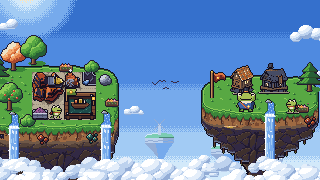
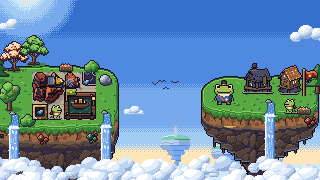
Title scene: the sky island at morning replaces the bayou at dusk
The world moved from a bayou to a floating sky island (docs/sky-island.md), and the title's
key art was the last big piece still showing water and stilts. The new src/art/title_scene
(320x180, 8 frames at 8 fps) is built by pixel-art/title/build.py from pixel-art/sky's pieces
and the game's own sprites:

- the Workshop island at the left with its paved plot and the working line in an L (a miner on
  the iron outcrop, a furnace, a belt turn carrying ingots into the Dock), a brass module with an
  ingot in its well beside it (the tagline's promise), trees on the rim, two waterfalls, a tiered
  underside into the cloud sea;
- the town's island at the right: Mayor Bramble, drawn whole here, raising his top hat against
  the sky, his house and a gable house re-seated on footings, the town's pennant, a townsperson,
  a waterfall and the rocky tip;
- a morning sky (the sun's glow, a warm horizon), a hazed windmill islet, puffs, birds.

The composition keeps the bands drawTitleScene already uses: nothing tall under the logo and
ribbon, the buttons on open sky between the islands, the last line on the cloud sea. The whole
line sits inside the 1024x640 crop (scene x 32-288). drawTitleScene's coordinates are unchanged
(its comment now says sky, not water). PixelLab: 0 generations.

Checked: tsc clean, vitest 662 passed, e2e/screens.mjs title clean at 1280x720, 1920x1080 and
1024x640; pixel-art/title/shot.mjs shows the Continue state (the coin chip clears Bramble).

diff --git a/src/app/hud.ts b/src/app/hud.ts
@@ -552,8 +552,9 @@ export function drawTitle(app: App) {
 /** The title over the art director's key art ('title_scene', 320x180, STYLE.md): the scene at
  *  the smallest whole-number scale that covers the screen, centred and cropped, never smoothed.
  *  Everything is placed in scene coordinates so it lands on the scene's calm areas: the logo and
- *  the tagline's ribbon on the sky band (scene y 14-66), the buttons on the open water (y 104+),
- *  the last line on a slip along the bottom. */
+ *  the tagline's ribbon on the sky band (scene y 14-66), the buttons on the open sky between the
+ *  two islands (x 125-195 from y 104; the coin chip lands on the town island's empty west end),
+ *  the last line on a slip on the cloud sea along the bottom (pixel-art/title/build.py). */
 function drawTitleScene(app: App) {
   const ui = app.ui;
   const t = ui.time;

diff --git a/pixel-art/title/build.py b/pixel-art/title/build.py
@@ -6,24 +6,33 @@ everything that matters sits inside that.
 Composition (scene px): a morning sky (sky.py's gradient, the sun's glow top-left) with the logo
 (y 14..54) and the tagline ribbon (y 56..64) on its calm band; the buttons (x 125..195 from y 104)
 on open sky between two islands; the last line's slip on the cloud sea along the bottom.
-- the Workshop island at the left, nearer and lower: the grass rim, a paved plot with the working
-  line (a miner on the iron outcrop, a furnace, a belt carrying ingots into the Dock), trees on the
-  rim, its cliff with an iron vein, a waterfall off its lip, its underside sunk in the cloud sea;
-- the town's island at the right, higher: Bramble's house and a gable house on footings, a lamp,
-  the town flag, Mayor Bramble in front of his door raising his top hat, a frog townsperson, its
-  cliff, underside and rocky tip, a long waterfall into the clouds;
-- far islets hazed on the horizon under the buttons, high puffs in the corners, a flock of birds.
+- the Workshop island at the left: the grass rim, a paved plot with the working line in an L (a
+  miner on the iron outcrop, a furnace, a belt turning south into the Dock, ingots riding it), a
+  brass module with an ingot in its well beside it (the line folded: the tagline's promise), a
+  frog worker, trees and bushes on the rim, its cliff with ore veins, two waterfalls off its lip,
+  its tiered underside sinking into the cloud sea;
+- the town's island at the right: Mayor Bramble out on the open grass raising his top hat (it
+  goes up against the sky), his house and a gable house re-seated on stone footings, the town's
+  red pennant, a townsperson, a waterfall, the cliff, the tiered underside and its rocky tip;
+- a hazed windmill islet on the horizon under the buttons (off their axis), puffs in the
+  corners, a flock of birds over the gap, the horizon warmed to the sun's colour (morning).
+Nothing tall stands under the logo or the ribbon (x 50..270 above y 66): trees only at x < 50.
 
-Motion (8 frames): the waterfalls run (isle_fall's 4-frame loop twice) and foam where they meet the
-clouds, the belt runs and ingots ride it into the Dock, the miner drills and the furnace's mouth
-flickers, a puff of smoke rises, the flag waves, the birds flap and bob, the front puffs of the
-cloud sea breathe, the lamp flickers, Bramble raises his hat once a loop.
+Motion (8 frames, a 1 s loop): the waterfalls run (isle_fall's 4-frame loop twice) and foam
+where they meet the clouds, the belt turn runs and two ingots ride it into the Dock, the miner
+drills, the furnace's mouth flickers, the module's band breathes, the pennant waves, the birds
+flap and bob, the front puffs of the cloud sea breathe a pixel, the frog worker steps, Bramble
+blinks and raises his hat. Nothing drifts across the frame (it could not loop in 8 frames).
 
 Pieces: pixel-art/sky/ (the island's cliff and underside textures, the tip, the falls and foam,
-the grass and paving tiles, deco, trees and bushes, clouds, islets, the bird) and src/art/ (the
-miner, furnace, belt, Dock, iron outcrop, town houses, lamp, frog). Bramble's full figure and
-the flag are drawn here. Run `python build.py` from this folder: writes src/art/title_scene.png
-+ .json and looks in out/.
+the grass and paving tiles, deco, trees and bushes, clouds, islets, the bird, the gradient) and
+src/art/ (the miner, furnace, belt turn, Dock, module, ingot, iron outcrop on paving, town houses,
+frog). Bramble's whole figure, the pennant and the islands' shapes are drawn here (the game's
+island is tile-built and too big for 320x180; this one follows its rules per pixel column: lip,
+cliff, tiers, tip, one ink outline). Run `python build.py` from this folder: it writes
+src/art/title_scene.png + .json and the looks in out/ (frame 0 at 1x and 4x, frame 5 at 4x, a
+GIF, the motion sheets, Bramble at 10x, the 1024x640 crop). `node shot.mjs` (with BASE set to a
+dev server) shoots the real title with a save at the three window sizes into out/game-*.png.
 """
 import json
 import math
@@ -35,7 +44,7 @@ sys.path.insert(0, str(HERE.parent / "sky"))
 
 from PIL import Image  # noqa: E402
 
-from common import P, T, new, draw, put, rect, get, rgb, hsh, vnoise, scale, frame_of, ART_SET, sheet  # noqa: E402
+from common import P, T, new, draw, put, rgb, hsh, vnoise, scale, frame_of, ART_SET, sheet, bayer  # noqa: E402
 import island  # noqa: E402
 import sky  # noqa: E402
 import props  # noqa: E402
@@ -104,17 +113,17 @@ BRAMBLE = [
     ".......khHhhk.......",
     ".......khHhhk.......",
     ".......khhhhk.......",
-    ".......koyook.......",
-    "..kkk.kkkkkkkk.kkk..",
-    ".kwwwkkGGGGGGkkwwwk.",
-    ".kwkekGGGGGGGGGkekwk",
-    ".kwwwkGGGGGGGGGkwwgk",
-    ".kGGGGGGGGGGGGGGGGgk",
-    ".kGGGGGGGGGGGGGGGggk",
-    ".kgGkGGGGGGGGGGkGggk",
-    ".kggGkkkkkkkkkkGgggk",
-    "..kgggggggggggggggk.",
-    "...kkwwwwwwwwwwwkk..",
+    "..kkk..koyook..kkk..",
+    ".kwwwkkkkkkkkkkwwwk.",
+    ".kweekGGGGGGGGkeewk.",
+    ".kweekGGGGGGGGkeewk.",
+    ".kGwwGGGGGGGGGGwwGk.",
+    "kGGGGGGGGGGGGGGGGGgk",
+    "kGGGGGGGGGGGGGGGGGgk",
+    "kgGkGGGGGGGGGGGGkGgk",
+    "kggGkkkkkkkkkkkkGggk",
+    ".kggggggggggggggggk.",
+    "..kkwwwwwwwwwwwwkk..",
     "..kCskwwwwwwwwwkcck.",
     ".kCCCsSCCwwCCCCccck.",
     ".kCCCCsSCCCCCCCccck.",
@@ -141,36 +150,42 @@ def from_rows(rows, key):
 
 
 def bramble(f):
-    """Bramble standing, 20x25 (+3 above for the raised hat): frames 4-6 lift the hat with his
-    right hand, frame 2 blinks. Returns (img, y offset: draw at y - 3)."""
+    """Bramble standing, 24x32 (his feet on row 30): big domed eyes, his small top hat, the blue
+    coat with the copper sash and the gold medal. Frame 2 blinks; frames 4-6 he lifts the hat off
+    his head and holds it up at his side, his arm straight up in its sleeve (the hat 4 px up, 5 at
+    the top of the gesture), so the greeting reads at 1x against the sky."""
     rows = [list(r) for r in BRAMBLE]
-    if f == 2:                                   # blink: lids over both eyes
-        for y in (7,):
-            for x in (2, 3, 4, 15, 16, 17):
-                rows[y][x] = "g"
+    if f == 2:                                   # blink: the lids come down
         for x in (2, 3, 4, 15, 16, 17):
-            rows[6][x] = "g" if rows[6][x] == "w" else rows[6][x]
-    img = new(20, 28)
-    body = from_rows(["".join(r) for r in rows], BKEY)
-    if f in (4, 5, 6):
-        lift = 3 if f == 5 else 2
-        hat = body.crop((7, 0, 13, 5))
-        head = body.crop((0, 5, 20, 25))
-        img.alpha_composite(head, (0, 8))
-        img.alpha_composite(hat, (8, 3 - lift))
-        # the right arm up to the hat brim (the viewer's right): the hand on the brim
-        for (x, y, c) in ((17, 21, "k"), (18, 21, "k"), (16, 20, "g"), (17, 20, "g"), (18, 20, "k"),
-                          (15, 19, "g"), (16, 19, "g"), (17, 19, "k"), (14, 18, "k"), (15, 18, "k"),
-                          (13, 7 - lift, "g"), (14, 7 - lift, "k"), (13, 8 - lift, "k")):
-            put(img, x, y, BKEY[c])
-        # the old hand at his side is now his raised sleeve: clear it
-        for (x, y) in ((18, 23), (19, 23), (18, 24), (19, 24), (19, 25)):
-            if (x, y) == (18, 23):
-                put(img, x, y, BKEY["C"])
-            else:
-                img.putpixel((x, y), (0, 0, 0, 0))
-    else:
-        img.alpha_composite(body, (0, 3))
+            rows[5][x] = rows[6][x] = "g"
+            rows[7][x] = "k"
+    img = new(24, 32)
+    if f not in (4, 5, 6):
+        img.alpha_composite(from_rows(["".join(r) for r in rows], BKEY), (0, 6))
+        return img
+    lift = 5 if f == 5 else 4
+    hat = from_rows([r[6:14] for r in BRAMBLE[:5]] + ["kkkkkkkk"], BKEY)
+    rows[4] = list("..kkk..........kkk..")               # the head, bare (row 5 is its crown)
+    for y in (18, 19, 20):                               # the hand leaves his side
+        rows[y][18] = rows[y][19] = "."
+        rows[y][17] = "k"
+    img.alpha_composite(from_rows(["".join(r) for r in rows[4:]], BKEY), (0, 10))
+    brim = 11 - lift
+    img.alpha_composite(hat, (13, brim - 5))
+    arm = {}
+    for y in range(brim + 1, 23):                        # the sleeve, wrist to shoulder
+        arm[(20, y)] = "C"
+        arm[(21, y)] = "c"
+    for (x, y) in ((20, brim - 1), (21, brim - 1), (20, brim), (21, brim)):
+        arm[(x, y)] = "g"                                # the hand on the brim
+    arm[(20, brim - 1)] = "G"
+    for (x, y), ch in arm.items():
+        put(img, x, y, BKEY[ch])
+    for (x, y) in list(arm):
+        for dx, dy in ((1, 0), (-1, 0), (0, 1), (0, -1)):
+            q = (x + dx, y + dy)
+            if q not in arm and 0 <= q[0] < 24 and 0 <= q[1] < 32 and not img.getpixel(q)[3]:
+                put(img, q[0], q[1], P["ink"])
     return img
 
 
@@ -376,11 +391,6 @@ class Isle:
         while y < sea + 6:
             img.alpha_composite(seg.crop((0, 0, 16, min(32, sea + 6 - y))), (fx, y))
             y += 32
-        # the falling sheet's own outline, so it reads against the sky
-        for yy in range(fr + 1, sea + 6):
-            for xx in (fx + 2, fx + 13):
-                if 0 <= yy < H and not get(img, xx, yy)[3]:
-                    pass
 
 
 # ---------------------------------------------------------------- the ground on the islands
@@ -419,8 +429,17 @@ ISLETS = [sky.islet(v) for v in range(4)]
 
 def backdrop():
     img = GRAD.copy()
-    # far islets on the horizon (pre-hazed), the one under the buttons the smallest
-    for (x, y, v) in ((128, 116, 2), (196, 128, 1), (-18, 122, 3)):
+    # morning: the horizon right over the cloud sea warms to the sun's colour, a band with the
+    # gradient's own 8-row ordered-dither seam above it (sky.py), mostly showing between the puffs
+    a = img.load()
+    seam, band = 144, 152
+    for y in range(seam, SEA + 2):
+        t = (y - seam + 0.5) / (band - seam)
+        for x in range(W):
+            if y >= band or bayer(x, y) < t:
+                a[x, y] = C("sun")
+    # far islets on the horizon (pre-hazed), the windmill one off the buttons' axis
+    for (x, y, v) in ((144, 118, 2), (196, 128, 1), (-18, 122, 3)):
         img.alpha_composite(ISLETS[v], (x, y))
     # high puffs in the corners (clear of the logo and the tagline), lower ones behind the islands
     for (x, y, k) in ((-22, 4, 4), (276, 16, 3), (290, 50, 5), (2, 48, 5), (100, 88, 5),
@@ -520,7 +539,7 @@ def left_island(img, f):
     # trees and bushes on the rim, outside the plot; tall ones only left of the logo (x < 50)
     for (k, x, y) in ((1, -4, 82), (3, 14, 70), (0, 34, 64), (2, 10, 110), (1, -14, 104)):
         img.alpha_composite(props.tree(k), (x - 16, y - 29))
-    for (k, x, y) in ((2, 58, 57), (0, 84, 58), (1, 98, 70), (2, 104, 92), (0, 20, 112)):
+    for (k, x, y) in ((2, 58, 57), (0, 84, 58), (1, 98, 70), (0, 20, 112)):
         img.alpha_composite(props.bush(k), (x, y))
     # the iron outcrop, re-seated off the planks onto the paving
     ore = new(32, 32)
@@ -543,18 +562,12 @@ def left_island(img, f):
     at(art("dock", (f // 4) % 2), 2, 1)
     at(art("miner", f % 4, row=0), 1, 0)
     at(art("furnace", f % 4, row=0), 2, 0)
-    # the slag heap and a frog worker on the plot's front row
-    at(art("heap", 2), 0, 2)
+    # on the plot's front row, this very line folded into one tile (the tagline's promise): a brass
+    # module with an ingot in its well, its band breathing; a frog worker beside it
+    at(art("module"), 0, 2)
+    at(art("items", 2), 0, 2, 4, 4)
+    at(art("module_glow", f % 4), 0, 2)
     at(reseat(art("town_frog", (f // 2) % 4)), 1, 2, 0, -2)
-    # smoke from the furnace: a puff that rises and thins over the loop
-    sx, sy = gx + 2 * T + 6, gy - 2 - f
-    if f < 6:
-        c = P["cloud2"] if f < 3 else P["cloud1"]
-        r = 1 + f // 3
-        for yy in range(-r, r + 1):
-            for xx in range(-r, r + 1):
-                if xx * xx + yy * yy <= r * r + 0.5:
-                    put(img, sx + xx + f // 2, sy + yy, c)
 
 
 def right_island(img, f):
@@ -566,18 +579,19 @@ def right_island(img, f):
     img.alpha_composite(body)
     for fx in RIGHT_FALLS:
         RIGHT.falls(img, fx, f)
-    # the town on the rim: back row houses on footings, the flag, the lamp
+    # the town on the rim: the mayor's house and a gable house on footings, the town flag
     gable = reseat(named("town_house", "gable"))
     home = reseat(named("town_house", "bramble"))
-    img.alpha_composite(props.tree(1), (310 - 16, 90 - 29))
-    img.alpha_composite(gable, (226, 63))
-    img.alpha_composite(home, (258, 62))
-    img.alpha_composite(flag(f), (210, 70))
-    img.alpha_composite(props.bush(2), (294, 98))
-    # Bramble in front of his door raising his hat, a townsperson beside him
-    img.alpha_composite(bramble(f), (236, 84))
+    img.alpha_composite(props.tree(1), (318 - 16, 92 - 29))
+    img.alpha_composite(home, (242, 62))
+    img.alpha_composite(gable, (274, 63))
+    img.alpha_composite(flag(f), (302, 68))
+    img.alpha_composite(props.bush(2), (296, 100))
+    # Bramble out on the open grass by his house, his hat against the sky when he raises it,
+    # facing the buttons; a townsperson by the gable house
+    img.alpha_composite(bramble(f), (214, 74))
     fr = reseat(art("town_frog", 0)).transpose(Image.FLIP_LEFT_RIGHT)
-    img.alpha_composite(fr, (284, 96))
+    img.alpha_composite(fr, (282, 96))
 
 
 def scene(f):
@@ -618,6 +632,11 @@ def build():
     for name, box in (("left", (28, 60, 124, 132)), ("right", (204, 60, 300, 170))):
         crops = [fr.crop(box) for fr in frames]
         scale(sheet(crops, 4), 3).save(OUT / f"motion_{name}@3x.png")
+    # Bramble's frames (0, blink, the hat going up, the top of it) at 10x over the sky
+    br = sheet([bramble(f) for f in (0, 2, 4, 5)])
+    bg = Image.new("RGBA", br.size, C("sky2"))
+    bg.alpha_composite(br)
+    scale(bg, 10).save(OUT / "bramble@10x.png")
     # the 1024x640 crop (scene x 32..288, y 10..170) at 2x
     scale(frames[0].crop((32, 10, 288, 170)), 2).save(OUT / "title_crop1024@2x.png")
     print("colours", len({p[:3] for p in strip.getdata()}))

diff --git a/pixel-art/title/prompts.md b/pixel-art/title/prompts.md
@@ -1,0 +1,15 @@
+# pixel-art/title: PixelLab log
+
+The sky island's title scene (`build.py` -> `src/art/title_scene.png`), 2026-10-21.
+
+Cap for this job: 80 generations. **Used: 0.** No PixelLab tool was called; no SpriteCook.
+
+Everything is drawn by `build.py`: the islands' shapes per pixel column over pixel-art/sky's
+textures (cliff, underside, tip, falls, foam, grass, paving, props, clouds, islets, bird), the
+game's own sprites from src/art (miner, furnace, belt turn, Dock, module, ingot, the iron outcrop,
+town houses re-seated on footings, the frog), and by hand Bramble's whole figure (big eyes, top
+hat, blue coat, copper sash, gold medal; blink and hat-raise frames) and the town's pennant.
+
+| # | tool | prompt | result | cost |
+|---|---|---|---|---|
+| - | - | (none) | - | 0 |
